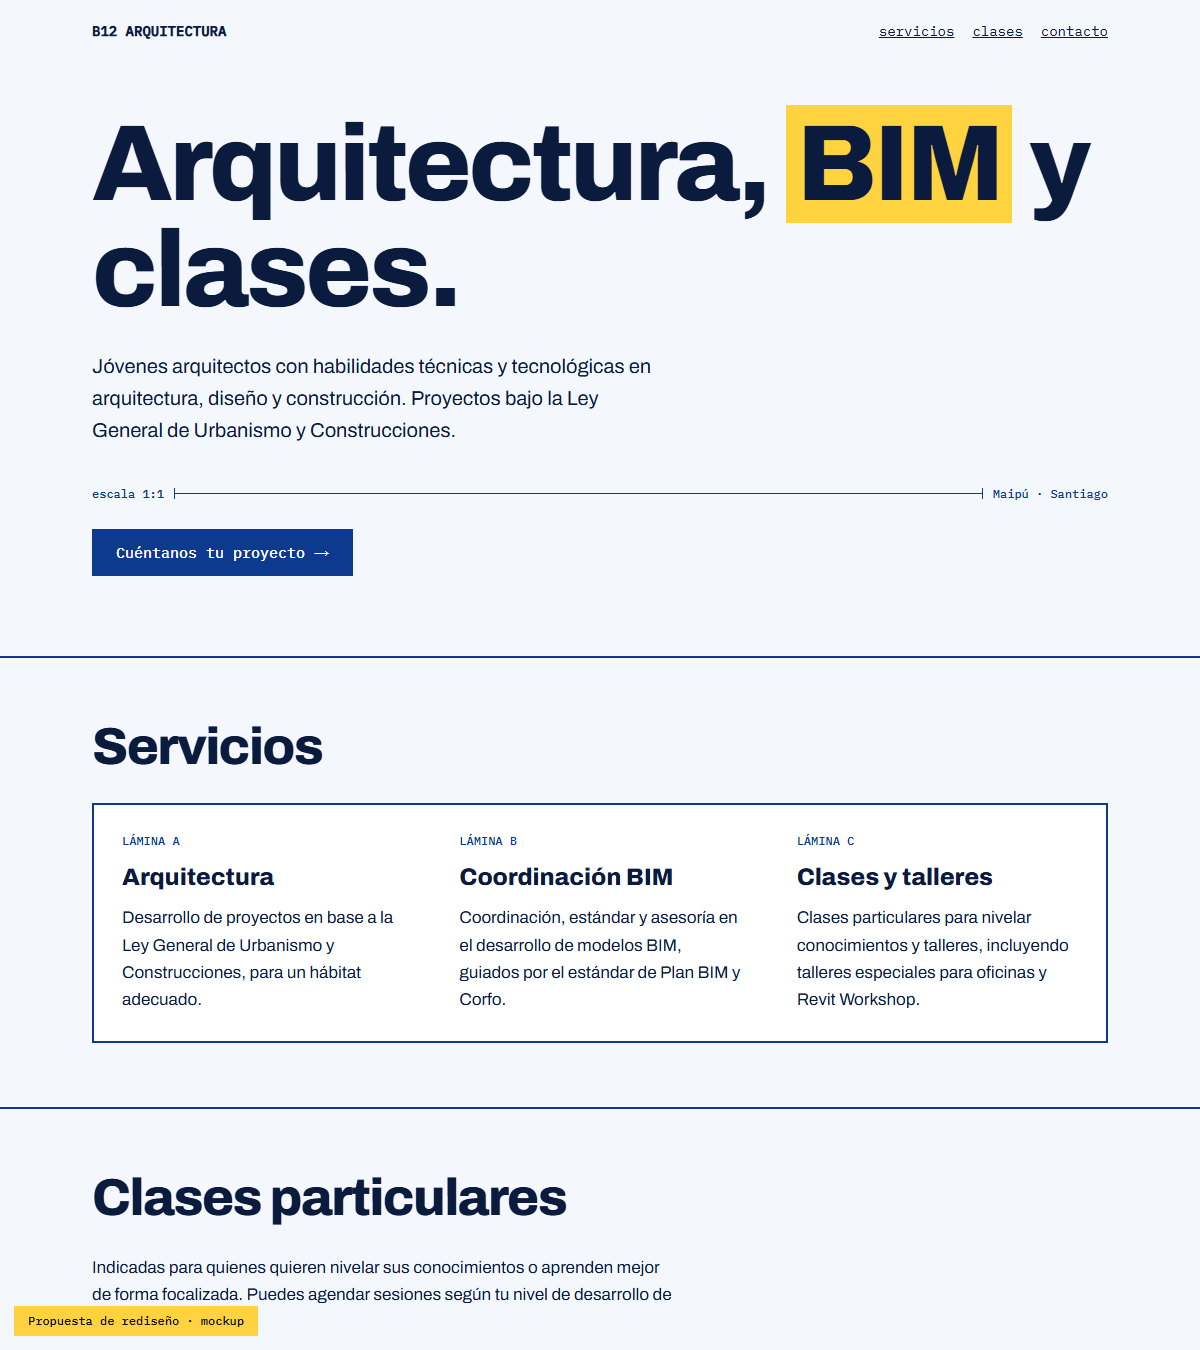
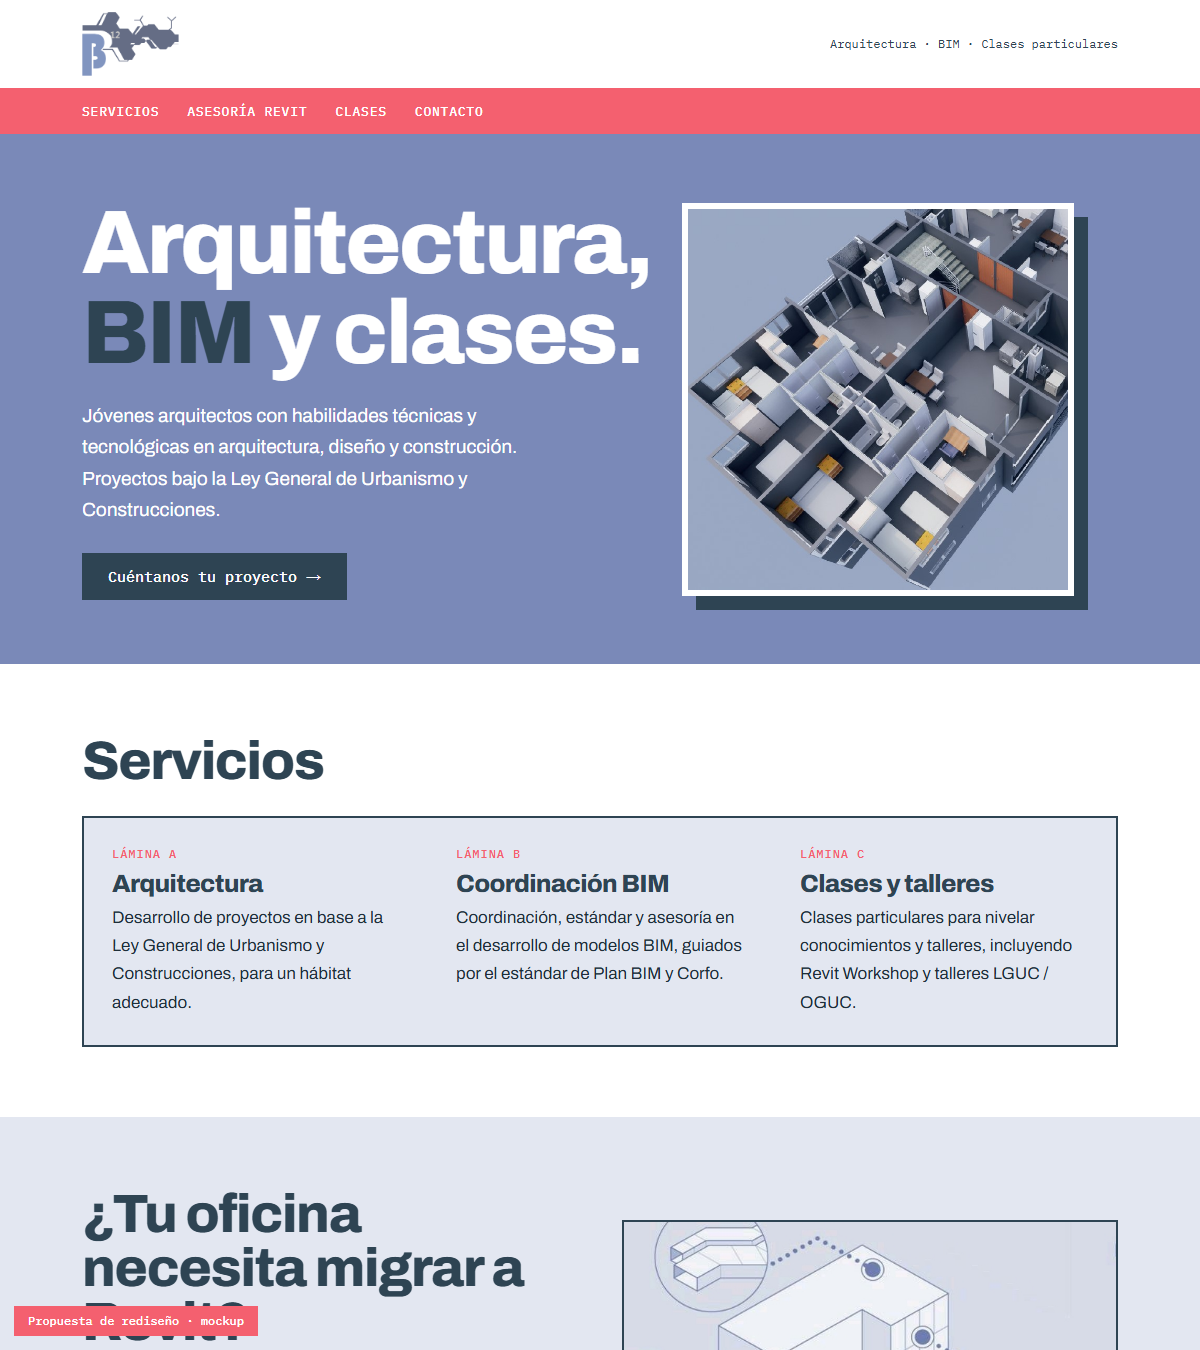
Mockup: b12-arquitectura-maipu

diff --git a/b12-arquitectura-maipu/index.html b/b12-arquitectura-maipu/index.html
@@ -2,49 +2,56 @@
 <html lang="es"><head><meta charset="utf-8"><meta name="viewport" content="width=device-width,initial-scale=1">
 <meta name="robots" content="noindex,nofollow">
 <title>B12 Arquitectura · Arquitectura, BIM y clases</title>
-<meta name="description" content="Arquitectura, coordinación BIM y clases particulares de Revit. Jóvenes arquitectos en Maipú, Santiago.">
-<link href="https://fonts.googleapis.com/css2?family=IBM+Plex+Mono:wght@400;500&family=Archivo:wght@400;600;800&display=swap" rel="stylesheet">
+<meta name="description" content="Arquitectura, coordinación BIM, asesoría para migrar a Revit y clases particulares. Jóvenes arquitectos en Maipú, Santiago.">
+<link href="https://fonts.googleapis.com/css2?family=Archivo:wght@400;600;800&family=IBM+Plex+Mono:wght@400;500&display=swap" rel="stylesheet">
 <style>
-:root{--bp:#0b3a8f;--paper:#f4f7fc;--ink:#0a1b3d;--grid:#c9d6ee;--hi:#ffd23f}
+:root{--peri:#7a89b8;--deep:#2e4453;--coral:#f4606f;--mist:#e3e7f1;--ink:#1f2e39}
 *{box-sizing:border-box;margin:0}html{scroll-behavior:smooth}
-body{background:var(--paper) linear-gradient(var(--grid) 1px,transparent 1px) 0 0/40px 40px,linear-gradient(90deg,var(--grid) 1px,transparent 1px) 0 0/40px 40px;background-color:var(--paper);color:var(--ink);font:17px/1.6 Archivo,sans-serif}
-.wrap{max-width:1060px;margin:0 auto;padding:0 22px}
+body{background:#fff;color:var(--ink);font:17px/1.65 Archivo,sans-serif}
+.wrap{max-width:1080px;margin:0 auto;padding:0 22px}
 .mono{font-family:'IBM Plex Mono',monospace}
-h1,h2{font-weight:800;line-height:.98;letter-spacing:-.03em}
-header{display:flex;justify-content:space-between;align-items:center;padding:20px 0;font-family:'IBM Plex Mono';font-size:14px}
-header a{color:var(--ink);margin-left:18px}
-.hero{padding:50px 0 80px}
-.hero h1{font-size:clamp(46px,9vw,118px)}.hero h1 span{background:var(--hi);padding:0 .1em}
-.hero p{max-width:50ch;margin-top:26px;font-size:20px}
-.dim{display:flex;align-items:center;gap:10px;margin-top:40px;font:500 12px 'IBM Plex Mono';color:var(--bp)}
-.dim i{flex:1;height:1px;background:var(--bp);position:relative}
-.dim i::before,.dim i::after{content:"";position:absolute;top:-5px;width:1px;height:11px;background:var(--bp)}.dim i::before{left:0}.dim i::after{right:0}
-.btn{display:inline-block;margin-top:28px;background:var(--bp);color:#fff;padding:14px 24px;text-decoration:none;font:500 15px 'IBM Plex Mono'}
-.btn:hover,.btn:focus-visible{background:var(--ink)}
-section{background:var(--paper);border-top:2px solid var(--bp);padding:64px 0}
-h2{font-size:clamp(30px,5vw,52px);margin-bottom:30px}
-.sheet{display:grid;grid-template-columns:repeat(auto-fit,minmax(280px,1fr));border:2px solid var(--bp)}
-.sheet>div{padding:28px;border-right:2px solid var(--bp);border-bottom:2px solid var(--bp);margin:0 -2px -2px 0;background:#fff}
-.sheet .tag{font:500 12px 'IBM Plex Mono';color:var(--bp);margin-bottom:10px}
-.sheet h3{font-size:24px;margin-bottom:8px}
-.cl{margin-top:20px;font-size:16px}.cl li{margin:0 0 6px 18px}
-.contact{display:grid;grid-template-columns:1fr 1fr;gap:40px}.contact a{display:block;color:var(--bp);font:500 17px 'IBM Plex Mono';margin:6px 0}
-footer{background:var(--paper);padding:26px 0 90px;font:12px 'IBM Plex Mono';color:var(--bp)}
-.mock{position:fixed;left:14px;bottom:14px;background:var(--hi);color:#111;font:500 12px/1 'IBM Plex Mono';padding:9px 14px;z-index:9}
-@media(max-width:760px){.contact{grid-template-columns:1fr}header a:not(:last-child){display:none}}
+h1,h2,h3{font-weight:800;line-height:1;letter-spacing:-.025em}
+header{background:#fff}header .wrap{display:flex;justify-content:space-between;align-items:center;padding-top:12px;padding-bottom:12px}
+header img{height:64px}
+nav.bar{background:var(--coral)}nav.bar .wrap{display:flex;gap:28px;height:46px;align-items:center;font:500 13px 'IBM Plex Mono';text-transform:uppercase;letter-spacing:.06em}
+nav.bar a{color:#fff;text-decoration:none}nav.bar a:hover{text-decoration:underline}
+.hero{background:var(--peri);color:#fff}
+.hero .wrap{display:grid;grid-template-columns:1.1fr .9fr;gap:30px;align-items:center;padding-top:64px;padding-bottom:64px}
+.hero h1{font-size:clamp(44px,7.5vw,92px)}.hero h1 span{color:var(--deep)}
+.hero p{margin:22px 0 28px;font-size:19px;max-width:46ch}
+.hero .pl{aspect-ratio:1;background:url(assets/hero.jpg) center/cover;border:6px solid #fff;box-shadow:14px 14px 0 var(--deep)}
+.btn{display:inline-block;background:var(--deep);color:#fff;padding:14px 26px;text-decoration:none;font:500 15px 'IBM Plex Mono'}
+.btn:hover,.btn:focus-visible{background:var(--coral)}
+section{padding:70px 0}h2{font-size:clamp(32px,5vw,54px);margin-bottom:28px;color:var(--deep)}
+.sheet{display:grid;grid-template-columns:repeat(auto-fit,minmax(280px,1fr));gap:0;border:2px solid var(--deep)}
+.sheet>div{padding:28px;border-right:2px solid var(--deep);border-bottom:2px solid var(--deep);margin:0 -2px -2px 0;background:var(--mist)}
+.tag{font:500 12px 'IBM Plex Mono';color:var(--coral);margin-bottom:10px;letter-spacing:.08em}
+.sheet h3{font-size:25px;margin-bottom:8px;color:var(--deep)}
+.rv{display:grid;grid-template-columns:1fr 1fr;gap:44px;align-items:center}
+.rv img{width:100%;border:2px solid var(--deep)}
+.rv ul{margin:16px 0 0 18px}.rv li{margin-bottom:6px}
+.band{background:var(--mist)}
+.contact{background:var(--deep);color:#fff}.contact h2{color:#fff}
+.contact .wrap{display:grid;grid-template-columns:1fr 1fr;gap:40px}
+.contact a{display:block;color:#ffc2c8;font:500 17px 'IBM Plex Mono';margin:6px 0}
+footer{padding:26px 0 90px;font:12px 'IBM Plex Mono';color:var(--deep)}
+.mock{position:fixed;left:14px;bottom:14px;background:var(--coral);color:#fff;font:500 12px/1 'IBM Plex Mono';padding:9px 14px;z-index:9}
+@media(max-width:780px){.hero .wrap,.rv,.contact .wrap{grid-template-columns:1fr}.hero .pl{box-shadow:8px 8px 0 var(--deep)}nav.bar .wrap{gap:16px;overflow:auto}}
 </style></head><body>
-<div class="wrap"><header><b>B12 ARQUITECTURA</b><nav><a href="#servicios">servicios</a><a href="#clases">clases</a><a href="#contacto">contacto</a></nav></header>
-<div class="hero"><h1>Arquitectura, <span>BIM</span> y clases.</h1>
+<header><div class="wrap"><img src="assets/logo.png" alt="B12 Arquitectura"><span class="mono" style="font-size:12px;color:var(--deep)">Arquitectura · BIM · Clases particulares</span></div></header>
+<nav class="bar"><div class="wrap"><a href="#servicios">Servicios</a><a href="#revit">Asesoría Revit</a><a href="#clases">Clases</a><a href="#contacto">Contacto</a></div></nav>
+<div class="hero"><div class="wrap"><div><h1>Arquitectura, <span>BIM</span> y clases.</h1>
 <p>Jóvenes arquitectos con habilidades técnicas y tecnológicas en arquitectura, diseño y construcción. Proyectos bajo la Ley General de Urbanismo y Construcciones.</p>
-<div class="dim"><span>escala 1:1</span><i></i><span>Maipú · Santiago</span></div>
-<a class="btn" href="https://wa.me/56986205372?text=Hola%20B12%2C%20quisiera%20consultar%20por%20un%20proyecto">Cuéntanos tu proyecto →</a></div></div>
+<a class="btn" href="https://wa.me/56986205372?text=Hola%20B12%2C%20quisiera%20consultar%20por%20un%20proyecto">Cuéntanos tu proyecto →</a></div>
+<div class="pl" role="img" aria-label="Modelo 3D isométrico de una planta de vivienda"></div></div></div>
 <section id="servicios"><div class="wrap"><h2>Servicios</h2><div class="sheet">
 <div><div class="tag">LÁMINA A</div><h3>Arquitectura</h3><p>Desarrollo de proyectos en base a la Ley General de Urbanismo y Construcciones, para un hábitat adecuado.</p></div>
 <div><div class="tag">LÁMINA B</div><h3>Coordinación BIM</h3><p>Coordinación, estándar y asesoría en el desarrollo de modelos BIM, guiados por el estándar de Plan BIM y Corfo.</p></div>
-<div><div class="tag">LÁMINA C</div><h3>Clases y talleres</h3><p>Clases particulares para nivelar conocimientos y talleres, incluyendo talleres especiales para oficinas y Revit Workshop.</p></div></div></div></section>
-<section id="clases"><div class="wrap"><h2>Clases particulares</h2><p style="max-width:60ch">Indicadas para quienes quieren nivelar sus conocimientos o aprenden mejor de forma focalizada. Puedes agendar sesiones según tu nivel de desarrollo de proyectos.</p>
-<ul class="cl"><li>Clases particulares</li><li>Taller LGUC / OGUC</li><li>Revit Workshop</li><li>Talleres especiales para oficinas</li></ul></div></section>
-<section id="contacto"><div class="wrap contact"><div><h2>Hablemos</h2><p>Escríbenos con tus dudas o consultas; aportamos al desarrollo de tu proyecto.</p></div>
+<div><div class="tag">LÁMINA C</div><h3>Clases y talleres</h3><p>Clases particulares para nivelar conocimientos y talleres, incluyendo Revit Workshop y talleres LGUC / OGUC.</p></div></div></div></section>
+<section class="band" id="revit"><div class="wrap rv"><div><h2>¿Tu oficina necesita migrar a Revit?</h2><p>Asesoría técnica bajo el estándar BIM Corfo, a bajo costo de inversión y adaptada a las necesidades de cada equipo.</p><ul><li>2 veces por semana, durante 3 meses</li><li>Sin interferir en la rutina de trabajo</li></ul></div>
+<img src="assets/a.jpg" alt="Ilustración isométrica de un edificio BIM" loading="lazy"></div></section>
+<section id="clases"><div class="wrap"><h2>Clases particulares</h2><p style="max-width:60ch">Indicadas para quienes quieren nivelar sus conocimientos o aprenden mejor de forma focalizada. Puedes agendar sesiones según tu nivel de desarrollo de proyectos. También hay talleres especiales para oficinas.</p></div></section>
+<section class="contact" id="contacto"><div class="wrap"><div><h2>Hablemos</h2><p>Escríbenos con tus dudas o consultas; aportamos al desarrollo de tu proyecto.</p></div>
 <div><a href="https://wa.me/56986205372">+56 9 8620 5372</a><a href="mailto:bim12arquitectos@gmail.com">bim12arquitectos@gmail.com</a><a href="https://www.instagram.com/b12arquitectos">@b12arquitectos</a></div></div></section>
-<footer><div class="wrap">B12 ARQUITECTURA · MAIPÚ · SANTIAGO</div></footer>
+<div class="wrap"><footer>B12 ARQUITECTURA · MAIPÚ · SANTIAGO</footer></div>
 <div class="mock">Propuesta de rediseño · mockup</div></body></html>
